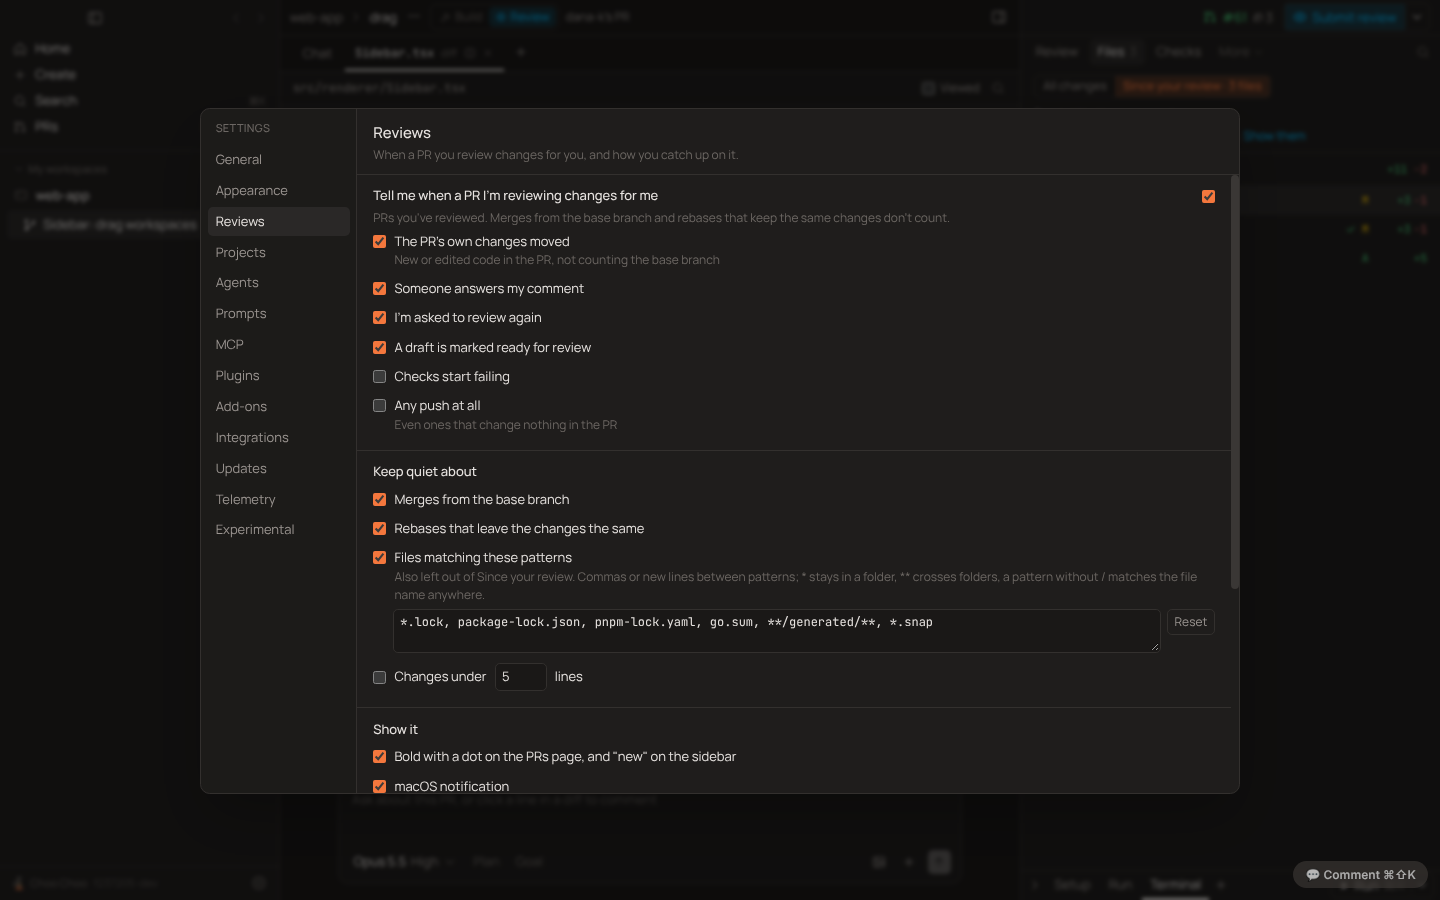
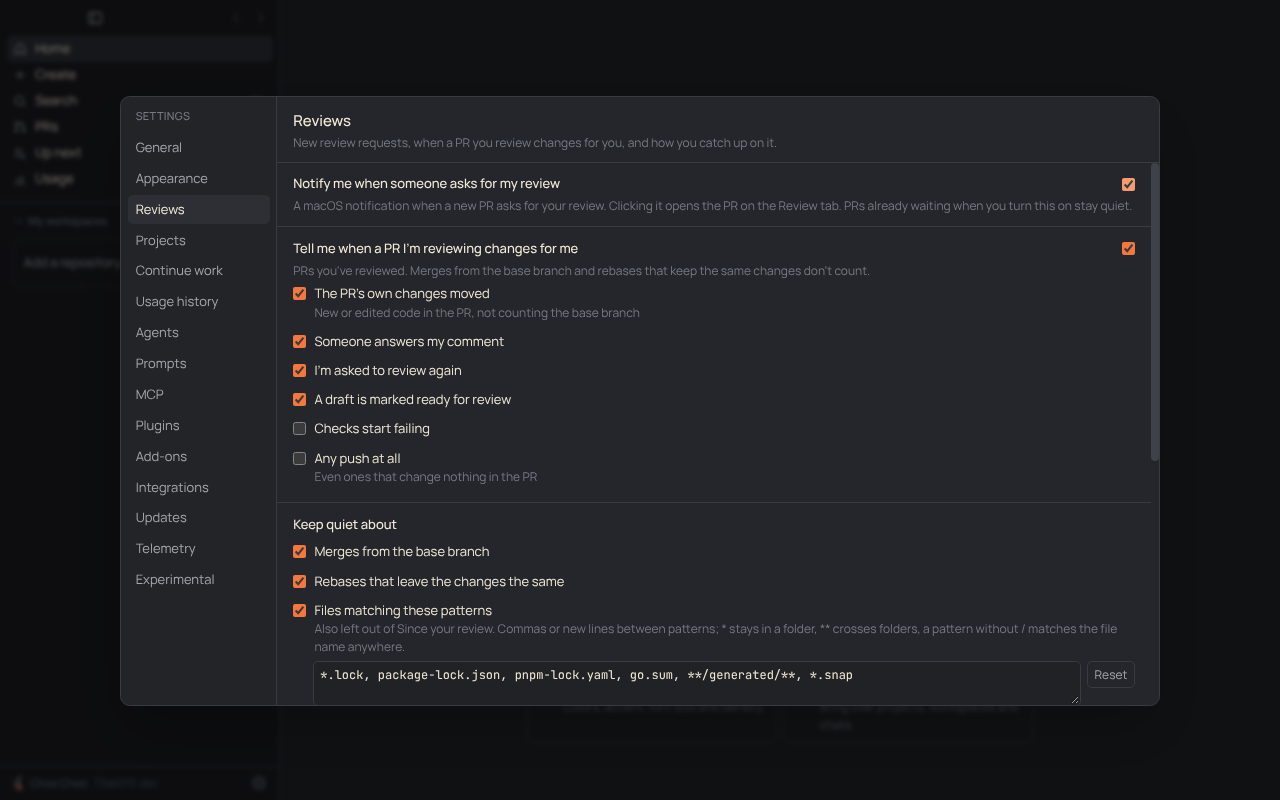
Reviews: optional notification when a new PR asks for your review (#117)
Settings › Reviews gets an opt-in switch, "Notify me when someone asks for my review". Each poll notifies for PRs newly asking for your review; the backlog at launch or when turned on stays quiet. Clicking opens the PR on the Review tab.

diff --git a/test/review-watch.test.ts b/test/review-watch.test.ts
@@ -1,5 +1,5 @@
 import { describe, it, expect } from 'vitest'
-import { inHours, look, markSeen, notification, toUpdate, type PrDetail, type PatchDelta, type ReviewWatchEntry } from '../src/shared/reviewWatch'
+import { inHours, look, markSeen, newRequests, notification, REQUEST_FORGET_MS, requestNotification, toUpdate, type PrDetail, type PatchDelta, type ReviewWatchEntry } from '../src/shared/reviewWatch'
 import { DEFAULT_REVIEW_SETTINGS, type ReviewSettings } from '../src/shared/reviewUpdates'
 import { parseDetail, detailQuery } from '../src/main/reviewWatch'
 import { groupByRepo, matchesFilter, parsePrInbox, type InboxPr } from '../src/shared/prInbox'
@@ -224,5 +224,48 @@ describe('automations', () => {
     expect(e).toMatchObject({ event: 'review_update', repo: 'example-org/web-app', number: 61, detail: 'changed for you since your review: 2 files changed since your review, answered your comment', key: 'review_update:example-org/web-app#61:code:h2|reply:t1:x' })
     expect(GITHUB_EVENTS.some((x) => x.id === 'review_update')).toBe(true)
     expect(isReviewEvent('review_update')).toBe(true)
+  })
+})
+
+describe('new review requests', () => {
+  const asked = (number: number, over: Partial<InboxPr> = {}) => pr({ number, roles: ['review'], ...over })
+  const t0 = Date.parse('2026-11-13T09:00:00Z')
+
+  it('stays quiet on the first look and remembers the backlog', () => {
+    const { seen, news } = newRequests(undefined, [asked(1), asked(2)], t0)
+    expect(news).toEqual([])
+    expect(Object.keys(seen).sort()).toEqual(['example-org/web-app#1', 'example-org/web-app#2'])
+  })
+
+  it('tells about a PR that starts asking after that, once', () => {
+    const first = newRequests(undefined, [asked(1)], t0)
+    const second = newRequests(first.seen, [asked(1), asked(2)], t0 + 60_000)
+    expect(second.news.map((p) => p.number)).toEqual([2])
+    const third = newRequests(second.seen, [asked(1), asked(2)], t0 + 120_000)
+    expect(third.news).toEqual([])
+  })
+
+  it('an empty earlier look still counts as a look', () => {
+    expect(newRequests({}, [asked(3)], t0).news.map((p) => p.number)).toEqual([3])
+  })
+
+  it('leaves out PRs you already reviewed (that is "asked again") and your own', () => {
+    const { seen, news } = newRequests({}, [asked(4, { roles: ['review', 'reviewed'] }), asked(5, { roles: ['mine', 'review'] }), pr({ number: 6, roles: ['reviewed'] })], t0)
+    expect(news).toEqual([])
+    expect(seen).toEqual({})
+  })
+
+  it('keeps a request through a missed look, and forgets it after a day off the list', () => {
+    const first = newRequests({}, [asked(7)], t0)
+    const gone = newRequests(first.seen, [], t0 + 60_000)
+    expect(newRequests(gone.seen, [asked(7)], t0 + 120_000).news).toEqual([])
+    const later = newRequests(gone.seen, [], t0 + REQUEST_FORGET_MS + 1)
+    expect(later.seen).toEqual({})
+    expect(newRequests(later.seen, [asked(7)], t0 + REQUEST_FORGET_MS + 2).news.map((p) => p.number)).toEqual([7])
+  })
+
+  it('names the PR, who asked and the repo', () => {
+    expect(requestNotification(asked(8, { title: 'Add search' }))).toEqual({ title: 'Review requested: #8 Add search', body: 'dana asked for your review. example-org/web-app' })
+    expect(requestNotification(asked(9, { isDraft: true })).body).toContain('(draft)')
   })
 })

diff --git a/src/renderer/src/components/ReviewSettings.tsx b/src/renderer/src/components/ReviewSettings.tsx
@@ -94,8 +94,29 @@ export function ReviewSettingsSection({
     disabled?: boolean;
   }) => <CheckRow {...p} r={r} set={set} />;
 
+  // Quiet hours cover both kinds of notification.
+  const quietOff = !r.onNewRequest && (off || !r.osNotify);
+
   return (
     <div>
+      <Group
+        title="Notify me when someone asks for my review"
+        toggle={
+          <input
+            type="checkbox"
+            aria-label="New review requests"
+            checked={r.onNewRequest}
+            onChange={(e) => set({ onNewRequest: e.target.checked })}
+          />
+        }
+      >
+        <div className="text-[12px] text-faint">
+          A macOS notification when a new PR asks for your review. Clicking it
+          opens the PR on the Review tab. PRs already waiting when you turn
+          this on stay quiet.
+        </div>
+      </Group>
+
       <Group
         title="Tell me when a PR I'm reviewing changes for me"
         toggle={
@@ -220,11 +241,11 @@ export function ReviewSettingsSection({
           disabled: off,
         })}
         <label
-          className={`flex items-center gap-2.5 py-1.5 ${off || !r.osNotify ? "opacity-50" : ""}`}
+          className={`flex items-center gap-2.5 py-1.5 ${quietOff ? "opacity-50" : ""}`}
         >
           <input
             type="checkbox"
-            disabled={off || !r.osNotify}
+            disabled={quietOff}
             checked={r.quietHoursOn}
             onChange={(e) => set({ quietHoursOn: e.target.checked })}
           />
@@ -233,7 +254,7 @@ export function ReviewSettingsSection({
             type="time"
             aria-label="From"
             className={input}
-            disabled={off || !r.osNotify || !r.quietHoursOn}
+            disabled={quietOff || !r.quietHoursOn}
             value={r.from}
             onChange={(e) => set({ from: e.target.value })}
           />
@@ -242,7 +263,7 @@ export function ReviewSettingsSection({
             type="time"
             aria-label="To"
             className={input}
-            disabled={off || !r.osNotify || !r.quietHoursOn}
+            disabled={quietOff || !r.quietHoursOn}
             value={r.to}
             onChange={(e) => set({ to: e.target.value })}
           />

diff --git a/src/shared/reviewWatch.ts b/src/shared/reviewWatch.ts
@@ -218,3 +218,34 @@ export function notification(pr: InboxPr, news: Reason[]): { title: string; body
   const who = news.every((r) => r.kind === 'code' || r.kind === 'push') ? `${pr.author} updated` : 'Update on'
   return { title: `${who} #${pr.number}: ${pr.title}`, body: `${why[0].toUpperCase()}${why.slice(1)}. ${pr.repo}` }
 }
+
+/** PRs asking for your review at recent looks: key → last time it was on the list (ms). */
+export type RequestSeen = Record<string, number>
+
+/** A PR asking for your review that you haven't reviewed yet and didn't open. Re-requests after a review are the "asked again" update instead. */
+export const isNewRequestCandidate = (p: Pick<InboxPr, 'roles'>) => p.roles.includes('review') && !p.roles.includes('reviewed') && !p.roles.includes('mine')
+
+/** A request that drops off the list for this long is forgotten, so asking again later notifies again. One bad poll doesn't. */
+export const REQUEST_FORGET_MS = 24 * 3600_000
+
+/**
+ * Which review requests are new since the last look. With no earlier look (first launch, or the
+ * setting just turned on) nothing is new: the backlog is remembered, not announced.
+ */
+export function newRequests(prev: RequestSeen | undefined, prs: InboxPr[], now: number): { seen: RequestSeen; news: InboxPr[] } {
+  const seen: RequestSeen = {}
+  for (const [k, t] of Object.entries(prev ?? {})) if (now - t < REQUEST_FORGET_MS) seen[k] = t
+  const news: InboxPr[] = []
+  for (const p of prs) {
+    if (!isNewRequestCandidate(p)) continue
+    const k = prKey(p)
+    if (prev && !(k in seen)) news.push(p)
+    seen[k] = now
+  }
+  return { seen, news }
+}
+
+/** The notification for a PR that newly asks for your review. */
+export function requestNotification(pr: InboxPr): { title: string; body: string } {
+  return { title: `Review requested: #${pr.number} ${pr.title}`, body: `${pr.author} asked for your review${pr.isDraft ? ' (draft)' : ''}. ${pr.repo}` }
+}

diff --git a/src/main/reviewWatch.ts b/src/main/reviewWatch.ts
@@ -3,7 +3,7 @@ import { promisify } from 'node:util'
 import * as store from './store'
 import type { InboxPr, PrInbox } from '@shared/prInbox'
 import { activeGlobs, comparePatches, normalizeReviewSettings, type FilePatch, type ReviewSettings } from '@shared/reviewUpdates'
-import { inHours, look, markSeen, notification, prKey, prune, toUpdate, type PatchDelta, type PrDetail, type Reason } from '@shared/reviewWatch'
+import { inHours, look, markSeen, newRequests, notification, prKey, prune, requestNotification, toUpdate, type PatchDelta, type PrDetail, type Reason } from '@shared/reviewWatch'
 
 const exec = promisify(execFile)
 
@@ -178,14 +178,30 @@ async function run(d: ReviewWatchDeps): Promise<PrInbox> {
     if (e) e.lastSeen = now
   }
   prune(state, now)
+
+  // New review requests: remembered from the first look on, told about only when they appear later.
+  const all = store.get()
+  let asked: InboxPr[] = []
+  if (s.onNewRequest) {
+    const { seen, news } = newRequests(all.reviewRequests, inbox.prs, now)
+    all.reviewRequests = seen
+    asked = news
+  } else delete all.reviewRequests
   store.save()
 
   for (const p of inbox.prs) {
     const u = toUpdate(state[prKey(p)], s)
     if (u) p.update = u
   }
+  const quiet = s.quietHoursOn && !inHours(new Date(), s.from, s.to)
+  if (!quiet) {
+    for (const pr of asked) {
+      const n = requestNotification(pr)
+      d.notify(pr, n.title, n.body)
+    }
+  }
   if (updates.length) {
-    if (s.osNotify && (!s.quietHoursOn || inHours(new Date(), s.from, s.to))) {
+    if (s.osNotify && !quiet) {
       for (const u of updates) {
         const n = notification(u.pr, u.reasons)
         d.notify(u.pr, n.title, n.body)

diff --git a/src/shared/types.ts b/src/shared/types.ts
@@ -9,7 +9,7 @@ import type { Layout, SavedLayout } from './layout'
 import type { AddonActionContext, AddonCallResult, AddonContext, AddonDevResult, AddonGrant, AddonInfo, AddonReloaded, AddonSource, AvailableAddon, AddonAppEvent, AddonToolCall, PinStatus } from './addons'
 import type { PrDiffTarget, PrHeadSync, PrReviewInfo, ReviewDraft, ReviewEvent } from './prReview'
 import type { Interdiff, ReviewSettings } from './reviewUpdates'
-import type { ReviewWatchState } from './reviewWatch'
+import type { RequestSeen, ReviewWatchState } from './reviewWatch'
 import type { LinkContext } from './linkHref'
 export interface Repo {
   id: string
@@ -737,6 +737,8 @@ export interface AppState {
   automationLedger?: Record<string, string[]>
   /** Review updates: where each PR you review stood at the last look (shared/reviewWatch.ts). */
   reviewWatch?: ReviewWatchState
+  /** New review requests: PRs asking for your review at recent looks (shared/reviewWatch.ts). Unset until the setting is on. */
+  reviewRequests?: RequestSeen
   /** Where the PR inbox stood at the last GitHub poll, for GitHub-event automations. */
   githubWatch?: GithubWatchState
   /** Up next: what starts, in order, when the usage window resets. */

diff --git a/src/renderer/src/components/Modals.tsx b/src/renderer/src/components/Modals.tsx
@@ -201,7 +201,7 @@ type SettingsTab = ReturnType<typeof useStore.getState>['settingsTab']
 const SETTINGS_SECTIONS: { id: SettingsTab; label: string; hint: string }[] = [
   { id: 'general', label: 'General', hint: 'Default model, effort and permissions, notifications, branches and archiving.' },
   { id: 'appearance', label: 'Appearance', hint: 'Theme, accent color, text size, density and fonts.' },
-  { id: 'reviews', label: 'Reviews', hint: 'When a PR you review changes for you, and how you catch up on it.' },
+  { id: 'reviews', label: 'Reviews', hint: 'New review requests, when a PR you review changes for you, and how you catch up on it.' },
   { id: 'projects', label: 'Projects', hint: 'Your projects and their workspaces.' },
   { id: 'continue', label: 'Continue work', hint: 'What happens when a chat hits your plan\'s usage limit, and what starts when the window resets.' },
   { id: 'usage', label: 'Usage history', hint: 'What the Usage page keeps: plan window readings and a summary of each Claude Code response. Stays on this Mac.' },

diff --git a/src/shared/reviewUpdates.ts b/src/shared/reviewUpdates.ts
@@ -6,6 +6,8 @@
  */
 
 export interface ReviewSettings {
+  /** A macOS notification when a PR newly asks for my review. Off until turned on. */
+  onNewRequest: boolean
   /** Tell me when a PR I'm reviewing changes for me. */
   notify: boolean
   /** The PR's own changes moved (non-empty interdiff). */
@@ -49,6 +51,7 @@ export interface ReviewSettings {
 export const DEFAULT_IGNORE_GLOBS = ['*.lock', 'package-lock.json', 'pnpm-lock.yaml', 'go.sum', '**/generated/**', '*.snap']
 
 export const DEFAULT_REVIEW_SETTINGS: ReviewSettings = {
+  onNewRequest: false,
   notify: true,
   onCode: true,
   onReply: true,

diff --git a/docs/PARITY.md b/docs/PARITY.md
@@ -135,7 +135,7 @@ Features Conductor doesn't have. Each one is off until you turn it on in Setting
 - ✅ **Plugins and skills** ([PRD](prd/plugins.md)): Settings › Plugins lets you browse marketplaces (Anthropic's is one click away), install for every repo or one repo, turn plugins on or off, uninstall, and see what each one adds and costs. It also lists your own skills, commands and agents.
 - ✅ **Add-ons** ([PRD](prd/add-ons.md), [author guide](addon-api.md)): Claude Code plugins that also add views to Choo Choo: in the sidebar, under a project, or as a tab beside a workspace. Settings › Add-ons adds sources (git repos, private ones included), installs, and turns add-ons on after showing their permissions in plain words. Views run in a sandbox and reach the app only through a permission-checked API (list, start, message and stop workspaces, the status of any pull request, opening a pull request in a workspace, own storage, notifications). An add-on can also keep working in the background, give the orchestrator tools, keep text files in a project's `.choo-choo` folder (and read the ones an agent left in its worktree), and put buttons in the app (at the top of a workspace, on sidebar rows, in the ⌘K palette), and a project's `choo-choo.json` can name the add-ons its team should have. An example lives in `examples/addons`. Develop add-on… loads an add-on or a marketplace from a folder and reloads it on save, with Reload and Inspect for each add-on (choo-choo addition).
 - ✅ **PRs page** ([PRD](prd/pr-inbox.md)): a PRs item under Search lists open PRs waiting on your review and the ones you opened, across all repos, grouped by repo, like Arc's GitHub live folder. Open → starts (or goes to) a workspace on the PR's branch with the Review tab open, cloning the repo first if needed.
-- ✅ **Review updates** ([PRD](prd/review-updates.md), choo-choo addition): PRs you reviewed are marked on the PRs page, in the sidebar and with a macOS notification only when they change for you (the PR's own code, an answer to your comment, a new request, ready for review), never for a merge from main or a clean rebase. Settings › Reviews has a switch per reason, an editable ignore list and the check interval (1, 2, 5 minutes or your own).
+- ✅ **Review updates** ([PRD](prd/review-updates.md), choo-choo addition): PRs you reviewed are marked on the PRs page, in the sidebar and with a macOS notification only when they change for you (the PR's own code, an answer to your comment, a new request, ready for review), never for a merge from main or a clean rebase. Settings › Reviews has a switch per reason, an editable ignore list and the check interval (1, 2, 5 minutes or your own). An opt-in switch there also sends a notification when a new PR asks for your review (not for the backlog already waiting); clicking it opens the PR on the Review tab.
 - ✅ **Stacked PRs** ([PRD](prd/stacked-prs.md)): one workspace holds a stack of PRs for one feature, listed under it in the sidebar, with a switcher in the header and a Stack tab. Changes to a lower PR are rebased up the stack and pushed after each agent turn; conflicts go to the agent. Address feedback on one, some or all PRs, fixed bottom first with a restack after each. Link the stack on GitHub (GitHub's stacked pull requests), then "Merge through #N" merges a PR and every PR below it in one step, all or none, and takes them off the stack.
 - ✅ **Comment mode** ([PRD](prd/comment-mode.md)): ⌘⇧K, click an element, type a note. In `npm run dev` it goes to the running checkout; in a release build Fix it opens a workspace on choo-choo itself (clone, or fork without push access) with the note and a screenshot, or opens a prefilled GitHub issue.
 - ✅ Subagent calls show as one collapsible card per agent, with the steps it took inside.

diff --git a/docs/prd/review-updates.md b/docs/prd/review-updates.md
@@ -2,10 +2,10 @@
 
 | | |
 |---|---|
-| Status | Shipped (PRs #100, #101, #102) |
+| Status | Shipped (PRs #100, #101, #102; new review requests in a follow-up) |
 | Owner | Choo Choo maintainers |
 | Requested by | Ben, 2026-11-12 |
-| Last updated | 2026-11-12 |
+| Last updated | 2026-11-13 |
 
 ## Problem
 
@@ -43,6 +43,8 @@ Keep quiet about: merges from the base branch (on), rebases that leave the chang
 **PRs page.** The To review list now also has the open PRs you already reviewed (GitHub drops them from "review requested" once you review). A PR that changed for you is bold with an orange dot and says why: "3 files changed since your review", "answered 2 of your comments", "asked for your review again", "ready for review". A quiet update says what happened in grey: "quiet update: merged main, the PR's own changes are the same". A new **Updated for you** filter lists only those; the sidebar's PRs row shows "2 new". The row's button reads **Review changes**. Opening the PR, or **Mark all seen**, clears the mark.
 
 **Notifications.** One macOS notification per PR that changed for you, naming who and why. Clicking it opens the PR in a workspace on the Review tab with Since your review on. Optional quiet hours.
+
+**New review requests** (opt-in, added 2026-11-13). Settings › Reviews › "Notify me when someone asks for my review" (off by default) sends a macOS notification when a PR newly asks for your review: "Review requested: #482 Show trip weather on the itinerary", "maya-chen asked for your review. trailhead/web". Clicking it opens the PR in a workspace on the Review tab. Only requests that appear after a check count: the first check after launch, or after turning the setting on, remembers the PRs already waiting and says nothing. PRs you already reviewed are left to "I'm asked to review again", and your own PRs never count. A request that drops off the list for a day is forgotten, so being asked again later notifies again; one failed check doesn't. Quiet hours apply. The list of requests seen lives in the app state as `reviewRequests` (`newRequests` in `src/shared/reviewWatch.ts`) and is dropped when the setting is off.
 
 **When it checks.** Every 2 minutes by default; 1, 2 and 5 minutes are offered and any number of minutes from 1 to 120 can be typed. It also checks when you open the PRs page, when you open a workspace on a PR you review, and when the window comes to the front.
 
@@ -90,5 +92,6 @@ On by default. Settings live in `Settings.reviews` and are filled in by `normali
 
 ## Future work
 
+- New review requests could also show "new" on the sidebar's PRs row, and start automations (automations already have a "review requested" event).
 - Notifications for your own PRs (new reviews and comments).
 - A menu-bar mode that keeps checking when the window is closed.
